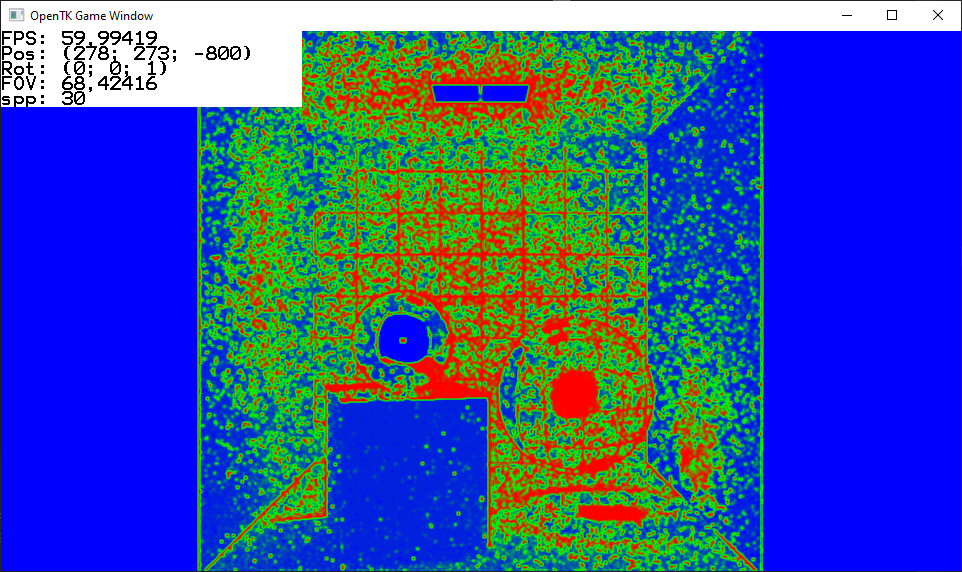
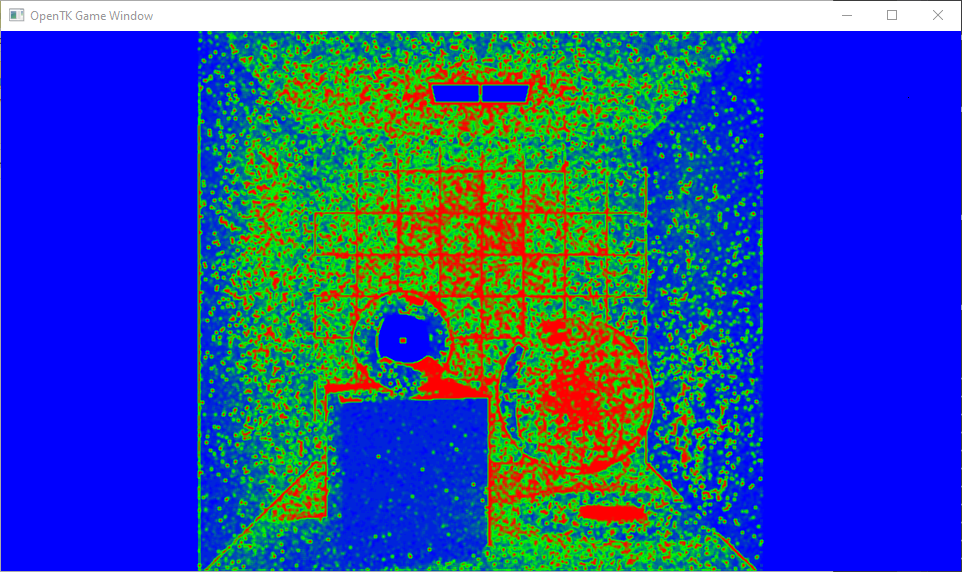
Final version

diff --git a/Lighthouse3/Camera.cs b/Lighthouse3/Camera.cs
@@ -16,7 +16,7 @@ namespace Lighthouse3
     public class Camera
     {
         public static bool timeFrames = true;
-        public static int maxFrames = 30;
+        public static int maxFrames = 0;
 
         //World position of the camera
         public Vector3 position;
@@ -89,7 +89,7 @@ namespace Lighthouse3
         Stopwatch stopwatch;
 
         private readonly object syncLock = new object();
-        private readonly float adaptiveSamplingFactor = 2f;
+        private readonly float adaptiveSamplingFactor = 0.5f;
 
         private Camera() { }
         public Camera(Vector3 position, Vector3 direction, int width, int height,
@@ -420,11 +420,7 @@ namespace Lighthouse3
             rendering = false;
         }
 
-        List<float> yesValues = new List<float>();
-        List<float> noValues = new List<float>();
-        List<float> allValues = new List<float>();
-
-        public float ShouldSuperSampleFDivergence(int x, int y)
+        public bool ShouldSuperSampleFDivergence(int x, int y)
         {
             float totalL = 0f;
             int totalSamples = 0;
@@ -448,7 +444,7 @@ namespace Lighthouse3
             }
 
             if (totalL < Calc.Epsilon)
-                return 0f;
+                return false;
 
             //From https://www.researchgate.net/publication/220853064_Refinement_Criteria_Based_on_f-Divergences
 
@@ -479,26 +475,30 @@ namespace Lighthouse3
                 }
             }
 
-            float distance = Calc.KLDistance(p, q);
+            float distance = 0f;
+            float threshold = 0f;
 
             switch (adaptiveSampling)
             {
                 case AdaptiveSamplingMethod.SqrtKullbackLeibler:
                     distance = Calc.KLDistance(p, q);
+                    threshold = 0.005f;
                     break;
                 case AdaptiveSamplingMethod.SqrtChiSquare:
                     distance = Calc.Chi2Distance(p, q);
+                    threshold = 0.007f;
                     break;
                 case AdaptiveSamplingMethod.SqrtHellinger:
                     distance = Calc.HellingerDistance(p, q);
+                    threshold = 0.003f;
                     break;
                 default:
-                    //Console.WriteLine("Error! Adaptive sampling method not recognised!");
+                    Console.WriteLine("Error! Adaptive sampling method not recognised!");
                     break;
             }
 
             float result = qVal * averageL * Calc.Sqrt(distance);
-            return result;
+            return result > threshold;
         }
 
         public bool ShouldSuperSampleContrast(int x, int y)
@@ -555,16 +555,14 @@ namespace Lighthouse3
                 for (int y = 0; y < screenHeight; y++)
                 {
                     bool supersample;
-                    //if (adaptiveSampling == AdaptiveSamplingMethod.Contrast)
+                    if (adaptiveSampling == AdaptiveSamplingMethod.Contrast)
                         supersample = ShouldSuperSampleContrast(x, y);
-                    //else
-                    //    supersample = ShouldSuperSampleFDivergence(x, y);
+                    else
+                        supersample = ShouldSuperSampleFDivergence(x, y);
 
-                    allValues.Add(ShouldSuperSampleFDivergence(x, y));
 
                     if (supersample)
                     {
-                        yesValues.Add(ShouldSuperSampleFDivergence(x, y));
                         for (int dx = x - 1; dx <= x + 1; dx++)
                         {
                             if ((x == 0 && dx == x - 1) || (x == screenWidth - 1 && dx == x + 1))
@@ -579,61 +577,8 @@ namespace Lighthouse3
                             }
                         }
                     }
-                    else
-                    {
-                        noValues.Add(ShouldSuperSampleFDivergence(x, y));
-                    }
                 }
             }
-            float totalAll = 0;
-            float minAll = float.MaxValue;
-            float maxAll = float.MinValue;
-            for (int i = 0; i < allValues.Count; i++)
-            {
-                totalAll += allValues[i];
-                if (allValues[i] < minAll)
-                    minAll = allValues[i];
-                if (allValues[i] > maxAll)
-                    maxAll = allValues[i];
-            }
-
-            Console.WriteLine("All Average: " + totalAll / allValues.Count);
-            Console.WriteLine("All Min: " + minAll);
-            Console.WriteLine("All Max: " + maxAll);
-
-            float totalYes = 0;
-            float minYes = float.MaxValue;
-            float maxYes = float.MinValue;
-            for (int i = 0; i < yesValues.Count; i++)
-            {
-                totalYes += yesValues[i];
-                if (yesValues[i] < minYes)
-                    minYes = yesValues[i];
-                if (yesValues[i] > maxYes)
-                    maxYes = yesValues[i];
-            }
-
-            Console.WriteLine("Yes Average: " + totalYes / yesValues.Count);
-            Console.WriteLine("Yes Min: " + minYes);
-            Console.WriteLine("Yes Max: " + maxYes);
-
-            float totalNo = 0;
-            float minNo = float.MaxValue;
-            float maxNo = float.MinValue;
-            for (int i = 0; i < noValues.Count; i++)
-            {
-                totalNo += noValues[i];
-                if (noValues[i] < minNo)
-                    minNo = noValues[i];
-                if (noValues[i] > maxNo)
-                    maxNo = noValues[i];
-            }
-
-            Console.WriteLine("No Average: " + totalNo / noValues.Count);
-            Console.WriteLine("No Min: " + minNo);
-            Console.WriteLine("No Max: " + maxNo);
-
-
         }
 
         public void MainThreadFrame(Scene scene)

diff --git a/Lighthouse3/Scenes/StandardScenes.cs b/Lighthouse3/Scenes/StandardScenes.cs
@@ -30,7 +30,9 @@ namespace Lighthouse3.Scenes
                     vignettingFactor: 2f,
                     gammaCorrection: false,
                     distortion: 0f, // Only if projection is set to Distortion
-                    stratification: true
+                    stratification: true,
+                    blueNoise: false,
+                    adaptiveSampling: Camera.AdaptiveSamplingMethod.None
                 );
             scene.backgroundColor = Color.Black;
 
@@ -63,7 +65,9 @@ namespace Lighthouse3.Scenes
                     vignettingFactor: 2f,
                     gammaCorrection: false,
                     distortion: 0f, // Only if projection is set to Distortion
-                    stratification: true
+                    stratification: true,
+                    blueNoise: false,
+                    adaptiveSampling: Camera.AdaptiveSamplingMethod.None
                 );
             scene.backgroundColor = Color.Black;
 
@@ -95,7 +99,9 @@ namespace Lighthouse3.Scenes
                     vignettingFactor: 2f,
                     gammaCorrection: false,
                     distortion: 0f, // Only if projection is set to Distortion
-                    stratification: true
+                    stratification: true,
+                    blueNoise: false,
+                    adaptiveSampling: Camera.AdaptiveSamplingMethod.None
                 );
             scene.backgroundColor = Color.Black;
 
@@ -127,7 +133,8 @@ namespace Lighthouse3.Scenes
                     gammaCorrection: false,
                     distortion: 0f, // Only if projection is set to Distortion
                     stratification: false,
-                    blueNoise: true
+                    blueNoise: true,
+                    adaptiveSampling: Camera.AdaptiveSamplingMethod.None
                 );
             scene.backgroundColor = Color.Black;
             scene.lights = new Light[]
@@ -170,7 +177,9 @@ namespace Lighthouse3.Scenes
                      vignettingFactor: 2f,
                      gammaCorrection: false,
                     distortion: 0f, // Only if projection is set to Distortion
-                    stratification: true
+                    stratification: true,
+                    blueNoise: false,
+                    adaptiveSampling: Camera.AdaptiveSamplingMethod.None
                  );
             scene.backgroundColor = Color.Black;
             scene.lights = new Light[]
@@ -211,7 +220,7 @@ namespace Lighthouse3.Scenes
                     Game.SCREEN_WIDTH, Game.SCREEN_HEIGHT,
                     projection: Camera.ProjectionType.Perspective,
                     screenDistance: 3f,
-                    raysPerPixel: 1,
+                    raysPerPixel: 4,
                     rayTracer: RayTracers.RayTracer.PathTracer,
                     antiAliasing: true,
                     vignettingFactor: 0f,
@@ -219,7 +228,7 @@ namespace Lighthouse3.Scenes
                     distortion: 0f, // Only if projection is set to Distortion
                     stratification: false,
                     blueNoise: false,
-                    adaptiveSampling: Camera.AdaptiveSamplingMethod.None
+                    adaptiveSampling: Camera.AdaptiveSamplingMethod.SqrtHellinger
                 );
             scene.backgroundColor = Color.Black;
 

diff --git a/README.md b/README.md
@@ -4,23 +4,20 @@ Created by Lucas Walters (5037883) and Kwinten Jacobs (7006233)
 
 =======
 List of features:
-- BVH implementation of the teapot scene with ~6k triangles
-- Teapot scene renders at least 6x faster with our binary BVH
-- OBJ scene renders at least 4x faster with our binary BVH
-- Binning over any number of split planes (currently set to 8) + optimal split plane selection using SAH
-- 4-way BVH by collapsing the 2-way BVH (but with reduced performance)
-- BVH generation of 1 million triangles in 8s
+- Adaptive Sampling based on 4 differen pixel error estimators: (These can be changed in the scene settings - StandardScenes.cs)
+	- Contrast based
+	- Square root of Kullback-Leibler distance
+    - Square root of Chi-square distance
+    - Square root of Hellinger distance
 - Next event estimation for the path tracer
 - Multiple importance sampling for (in)direct illumination
-- Cosine weighted diffuse random reflections
 - Russian roulette for path tracer rays
+- Blue noise random number generator for initial rays
+
 
 ========
 Important classes:
-- Scene.cs : Contains the BVH and the root node construction.
-- BVHNode.cs : Contains the BVH subdivide logic and the BVH collapse into 4-way BVH logic.
-- AABB.cs : Contains the logic for bounding box calculations.
-- PathTracer.cs : The new and improved path tracer (Kajya.cs is just a simple path tracer implementation for comparisons)
+- PathTracer.cs : The improved path tracer with NEE and MIS (Kajya.cs is a simple path tracer implementation with RR for comparisons)
 - StandardScenes.cs : Current scene can be selected here and the scenes can be changed here. Whether BVH is used can also be toggled here.
 
 ========
@@ -34,10 +31,10 @@ F & G: Increase and decrease FOV
 Up & down arrows: Rotate camera up and down
 Left & Right arrows: Rotate camera left and right
 J & H: Show & hide the information box in the top left corner
+O & P: Show & hide the heatmap view of samples per pixel (only available when adaptive sampling is used)
 
 =======
 To change the screen size/aspect ratio, go to line 17 & 18 of game.cs
-	(Note that a bug exists where high resolutions cause a grey horizontal line to appear sometimes)
 To load in a different scene:
 - Open StandardScenes.cs and go to line 12
 - Choose between: 
@@ -46,5 +43,5 @@ To load in a different scene:
    * public static Scene CURRENT_SCENE = SimpleOBJScene(); //Tiny OBJ without BVH
    * public static Scene CURRENT_SCENE = WhittedScene();
    * public static Scene CURRENT_SCENE = KajiyaScene();
-
-If anything is missing in one of these scenes, changes can be made in the scene descriptions listed in Scene.cs
+   * public static Scene CURRENT_SCENE = CornellBoxScene(); //Adapted Cornell Box scene with 2 light sources
+   
